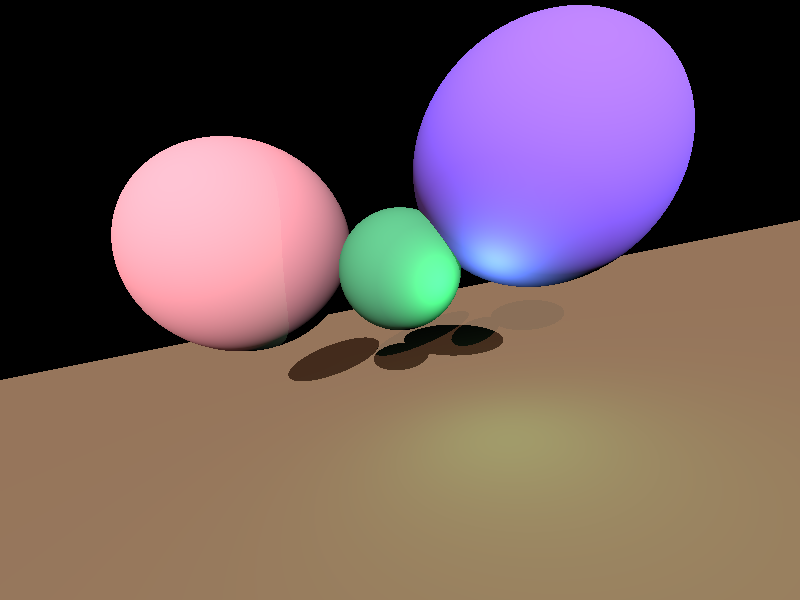
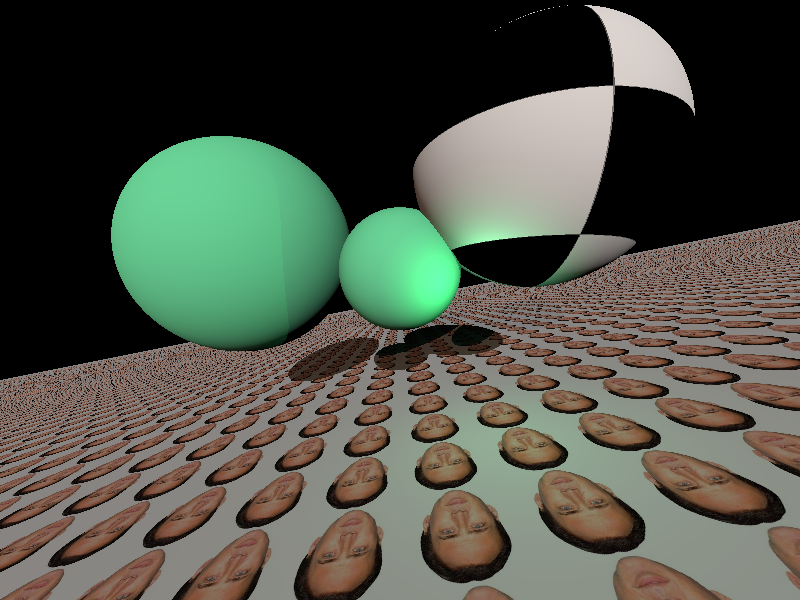
Texturing! Created generic 'material', can be either diffuse color or texture

diff --git a/src/rendering.rs b/src/rendering.rs
@@ -9,10 +9,17 @@ pub struct Ray {
   pub direction: Vector3,
 }
 
+#[derive(Debug)]
+pub struct TextureCoords {
+  pub x: f32,
+  pub y: f32,
+}
+
 pub trait Intersectable {
   fn intersect(&self, ray: &Ray) -> Option<f64>;
 
   fn surface_normal(&self, hit_point: &Point) -> Vector3;
+  fn texture_coords(&self, hit_point: &Point) -> TextureCoords;
 }
 
 impl Intersectable for Element {
@@ -27,6 +34,13 @@ impl Intersectable for Element {
     match *self {
       Element::Sphere(ref s) => s.surface_normal(hit_point),
       Element::Plane(ref p) => p.surface_normal(hit_point),
+    }
+  }
+
+  fn texture_coords(&self, hit_point: &Point) -> TextureCoords {
+    match *self {
+      Element::Sphere(ref s) => s.texture_coords(hit_point),
+      Element::Plane(ref p) => p.texture_coords(hit_point),
     }
   }
 }
@@ -57,6 +71,14 @@ impl Intersectable for Sphere {
   fn surface_normal(&self, hit_point: &Point) -> Vector3 {
     (*hit_point - self.center).normalize()
   }
+
+  fn texture_coords(&self, hit_point: &Point) -> TextureCoords {
+    let hit_vec = *hit_point - self.center;
+    TextureCoords {
+      x: (1.0 + (hit_vec.z.atan2(hit_vec.x) as f32) / PI) * 0.5,
+      y: (hit_vec.y / self.radius).acos() as f32 / PI,
+    }
+  }
 }
 
 impl Intersectable for Plane {
@@ -75,6 +97,28 @@ impl Intersectable for Plane {
 
   fn surface_normal(&self, _: &Point) -> Vector3 {
     -self.normal
+  }
+
+  fn texture_coords(&self, hit_point: &Point) -> TextureCoords {
+    let mut x_axis = self.normal.cross(&Vector3 {
+      x: 0.0,
+      y: 0.0,
+      z: 1.0,
+    });
+    if x_axis.length() == 0.0 {
+      x_axis = self.normal.cross(&Vector3 {
+        x: 0.0,
+        y: 1.0,
+        z: 0.0,
+      });
+    }
+    let y_axis = self.normal.cross(&x_axis);
+    let hit_vec = *hit_point - self.origin;
+
+    TextureCoords {
+      x: hit_vec.dot(&x_axis) as f32,
+      y: hit_vec.dot(&y_axis) as f32,
+    }
   }
 }
 
@@ -122,9 +166,10 @@ pub fn cast_ray(scene: &Scene, ray: &Ray, depth: u32) -> Color {
 // }
 
 fn get_color(scene: &Scene, ray: &Ray, intersection: &Intersection) -> Color {
+  let hit_point = ray.origin + (ray.direction * intersection.distance);
+  let texture_coords = intersection.object.texture_coords(&hit_point);
   let mut color = BLACK;
   for light in &scene.lights {
-    let hit_point = ray.origin + (ray.direction * intersection.distance);
     let surface_normal = intersection.object.surface_normal(&hit_point);
     let direction_to_light = light.direction_from(&hit_point);
 
@@ -143,10 +188,11 @@ fn get_color(scene: &Scene, ray: &Ray, intersection: &Intersection) -> Color {
     };
     let light_power = (surface_normal.dot(&direction_to_light) as f32).max(0.0) *
                       light_intensity;
-    let light_reflected = intersection.object.albedo() / PI;
+    let material = intersection.object.material();
+    let light_reflected = material.albedo / PI;
 
-    let light_color = intersection.object.color().clone() * light.color() * light_power * light_reflected;
-    color = color + light_color;
+    let light_color = light.color() * light_power * light_reflected;
+    color = color + (material.coloration.color(&texture_coords) * light_color);
   }
   color.clamp()
 }

diff --git a/src/scene.rs b/src/scene.rs
@@ -1,8 +1,12 @@
 use point::Point;
 use vector::Vector3;
-use rendering::{Intersectable, Ray};
+use rendering::{Intersectable, Ray, TextureCoords};
 use std::ops::{Mul, Add};
-use image::{Rgba, Pixel};
+use image::{Rgba, Pixel, DynamicImage, GenericImage};
+use serde::{Deserialize, Deserializer};
+use image;
+use std::fmt;
+use std::path::PathBuf;
 
 
 const GAMMA: f32 = 2.2;
@@ -142,12 +146,64 @@ pub struct SphericalLight {
 
 
 #[derive(Deserialize, Debug)]
+pub struct Material {
+  pub coloration: Coloration,
+  pub albedo: f32,
+}
+
+pub fn load_texture<D>(deserializer: D) -> Result<DynamicImage, D::Error>
+  where D: Deserializer
+{
+  let path = PathBuf::deserialize(deserializer)?;
+  Ok(image::open(path).expect("Unable to open texture file"))
+}
+
+#[derive(Deserialize)]
+pub enum Coloration {
+  Color(Color),
+  Texture(#[serde(deserialize_with="load_texture")]
+            DynamicImage),
+}
+impl fmt::Debug for Coloration {
+  fn fmt(&self, f: &mut fmt::Formatter) -> fmt::Result {
+    match *self {
+      Coloration::Color(ref c) => write!(f, "Color({:?})", c),
+      Coloration::Texture(_) => write!(f, "Texture"),
+    }
+  }
+}
+impl Coloration {
+  pub fn color(&self, texture_coords: &TextureCoords) -> Color {
+    match *self {
+      Coloration::Color(c) => c,
+      Coloration::Texture(ref texture) => {
+        let tex_x = wrap(texture_coords.x, texture.width());
+        let tex_y = wrap(texture_coords.y, texture.height());
+
+        Color::from_rgba(texture.get_pixel(tex_x, tex_y))
+      }
+    }
+  }
+}
+
+fn wrap(val: f32, bound: u32) -> u32 {
+  let signed_bound = bound as i32;
+  let float_coord = val * bound as f32;
+  let wrapped_coord = (float_coord as i32) % signed_bound;
+  if wrapped_coord < 0 {
+    (wrapped_coord + signed_bound) as u32
+  } else {
+    wrapped_coord as u32
+  }
+}
+
+
+#[derive(Deserialize, Debug)]
 pub struct Plane {
   pub origin: Point,
   #[serde(deserialize_with="Vector3::deserialize_normalized")]
   pub normal: Vector3,
-  pub color: Color,
-  pub albedo: f32,
+  pub material: Material,
 }
 
 
@@ -155,8 +211,7 @@ pub struct Plane {
 pub struct Sphere {
   pub center: Point,
   pub radius: f64,
-  pub color: Color,
-  pub albedo: f32,
+  pub material: Material,
 }
 
 
@@ -166,19 +221,19 @@ pub enum Element {
   Plane(Plane),
 }
 impl Element {
-  pub fn color(&self) -> &Color {
+  pub fn material(&self) -> &Material {
     match *self {
-      Element::Sphere(ref s) => &s.color,
-      Element::Plane(ref p) => &p.color,
+      Element::Sphere(ref s) => &s.material,
+      Element::Plane(ref p) => &p.material,
     }
   }
 
-  pub fn albedo(&self) -> f32 {
-    match *self {
-      Element::Sphere(ref s) => s.albedo,
-      Element::Plane(ref p) => p.albedo,
-    }
-  }
+  // pub fn material_mut(&mut self) -> &mut Material {
+  //   match *self {
+  //     Element::Sphere(ref s) => &mut s.material,
+  //     Element::Plane(ref p) => &mut p.material,
+  //   }
+  // }
 }
 
 
